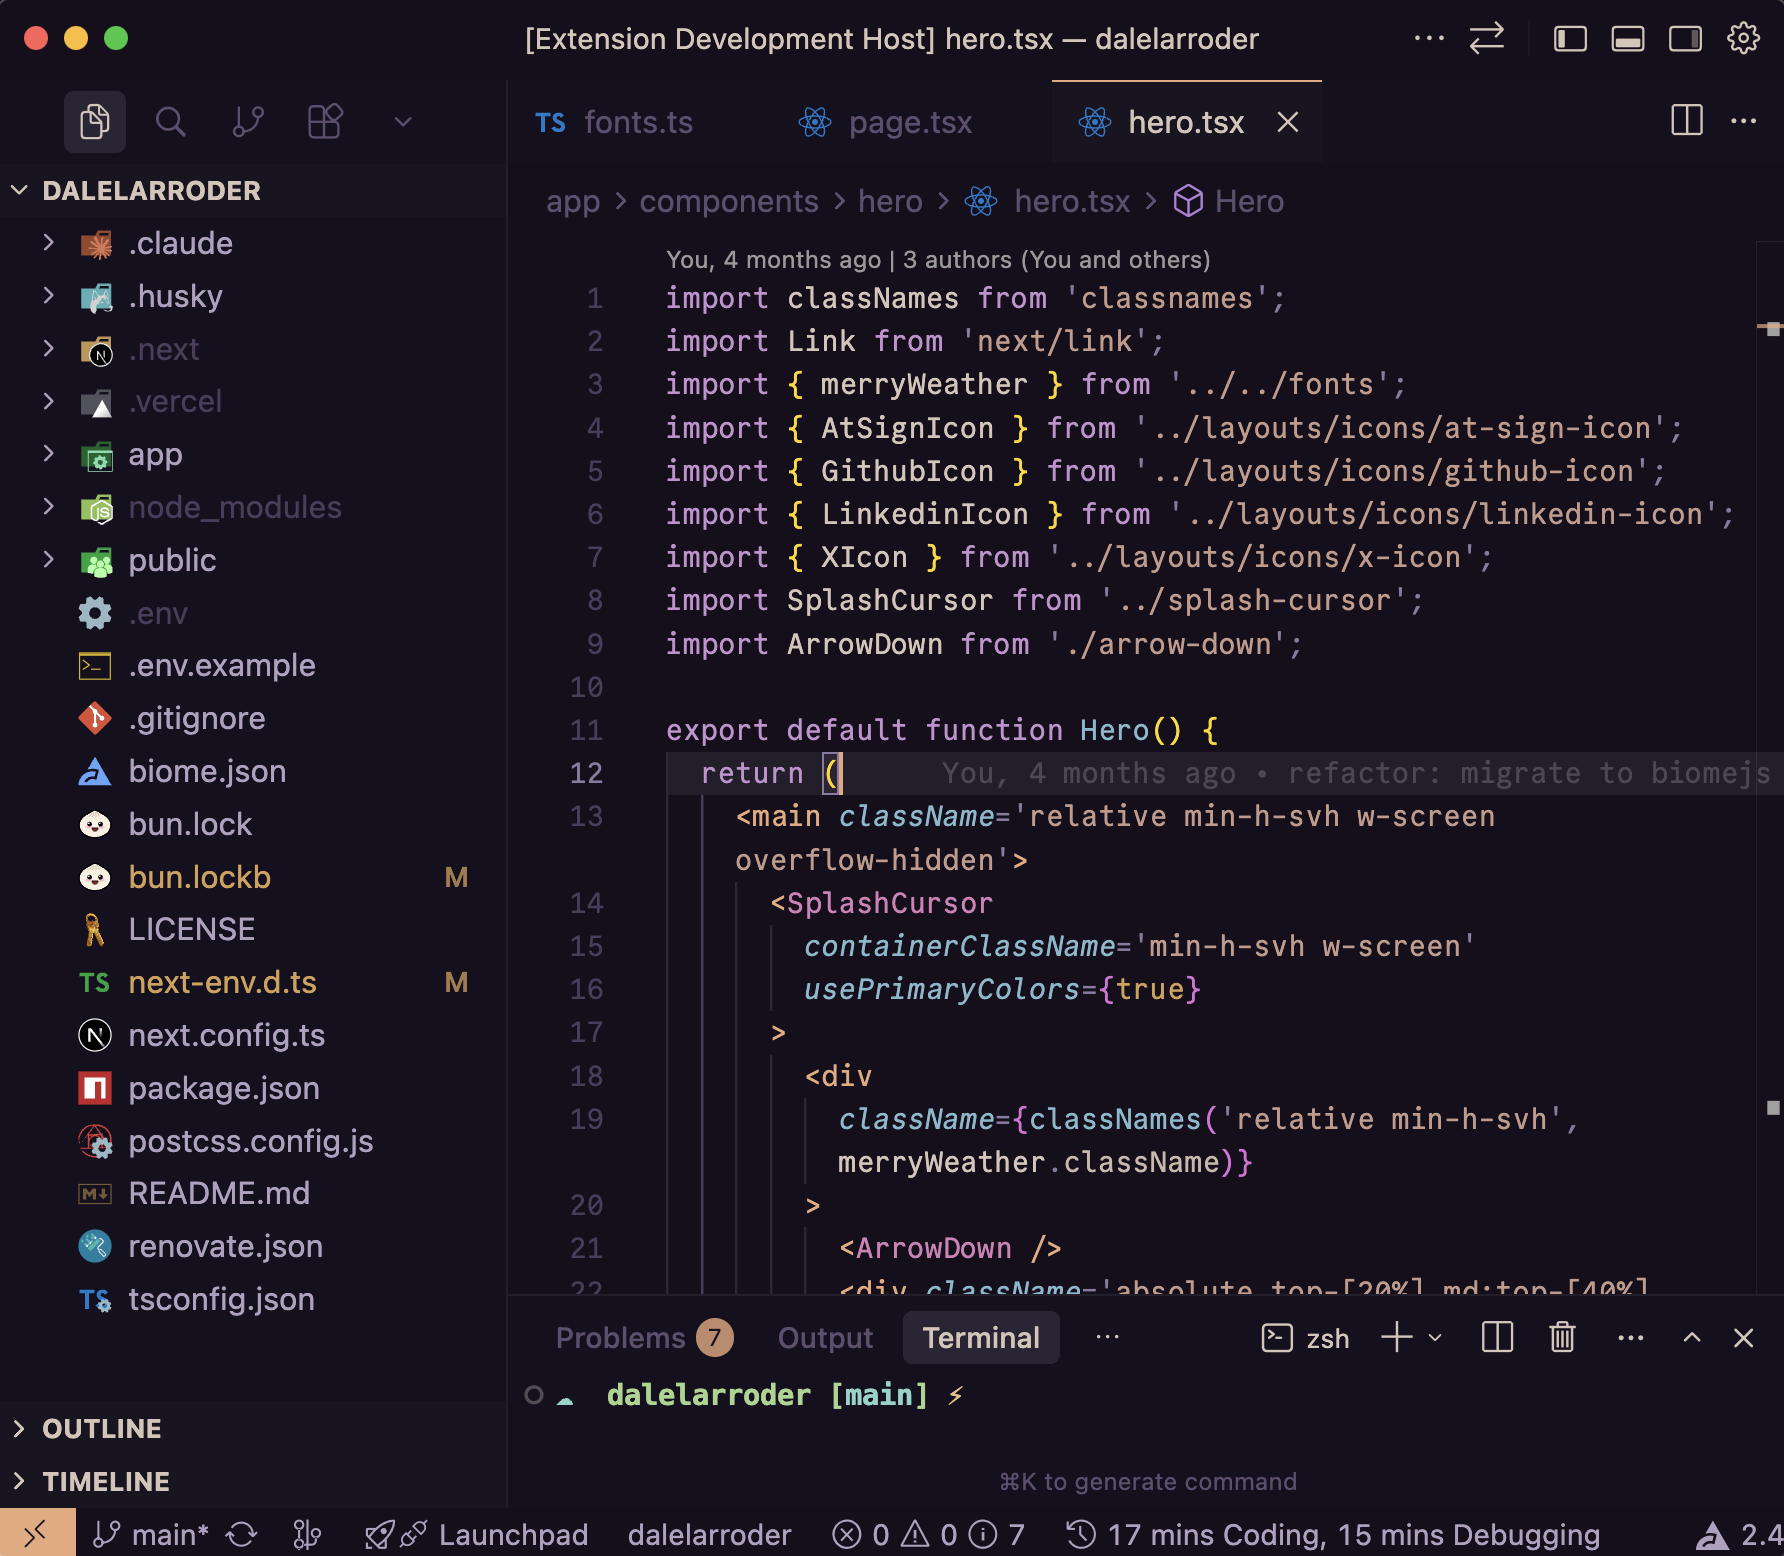
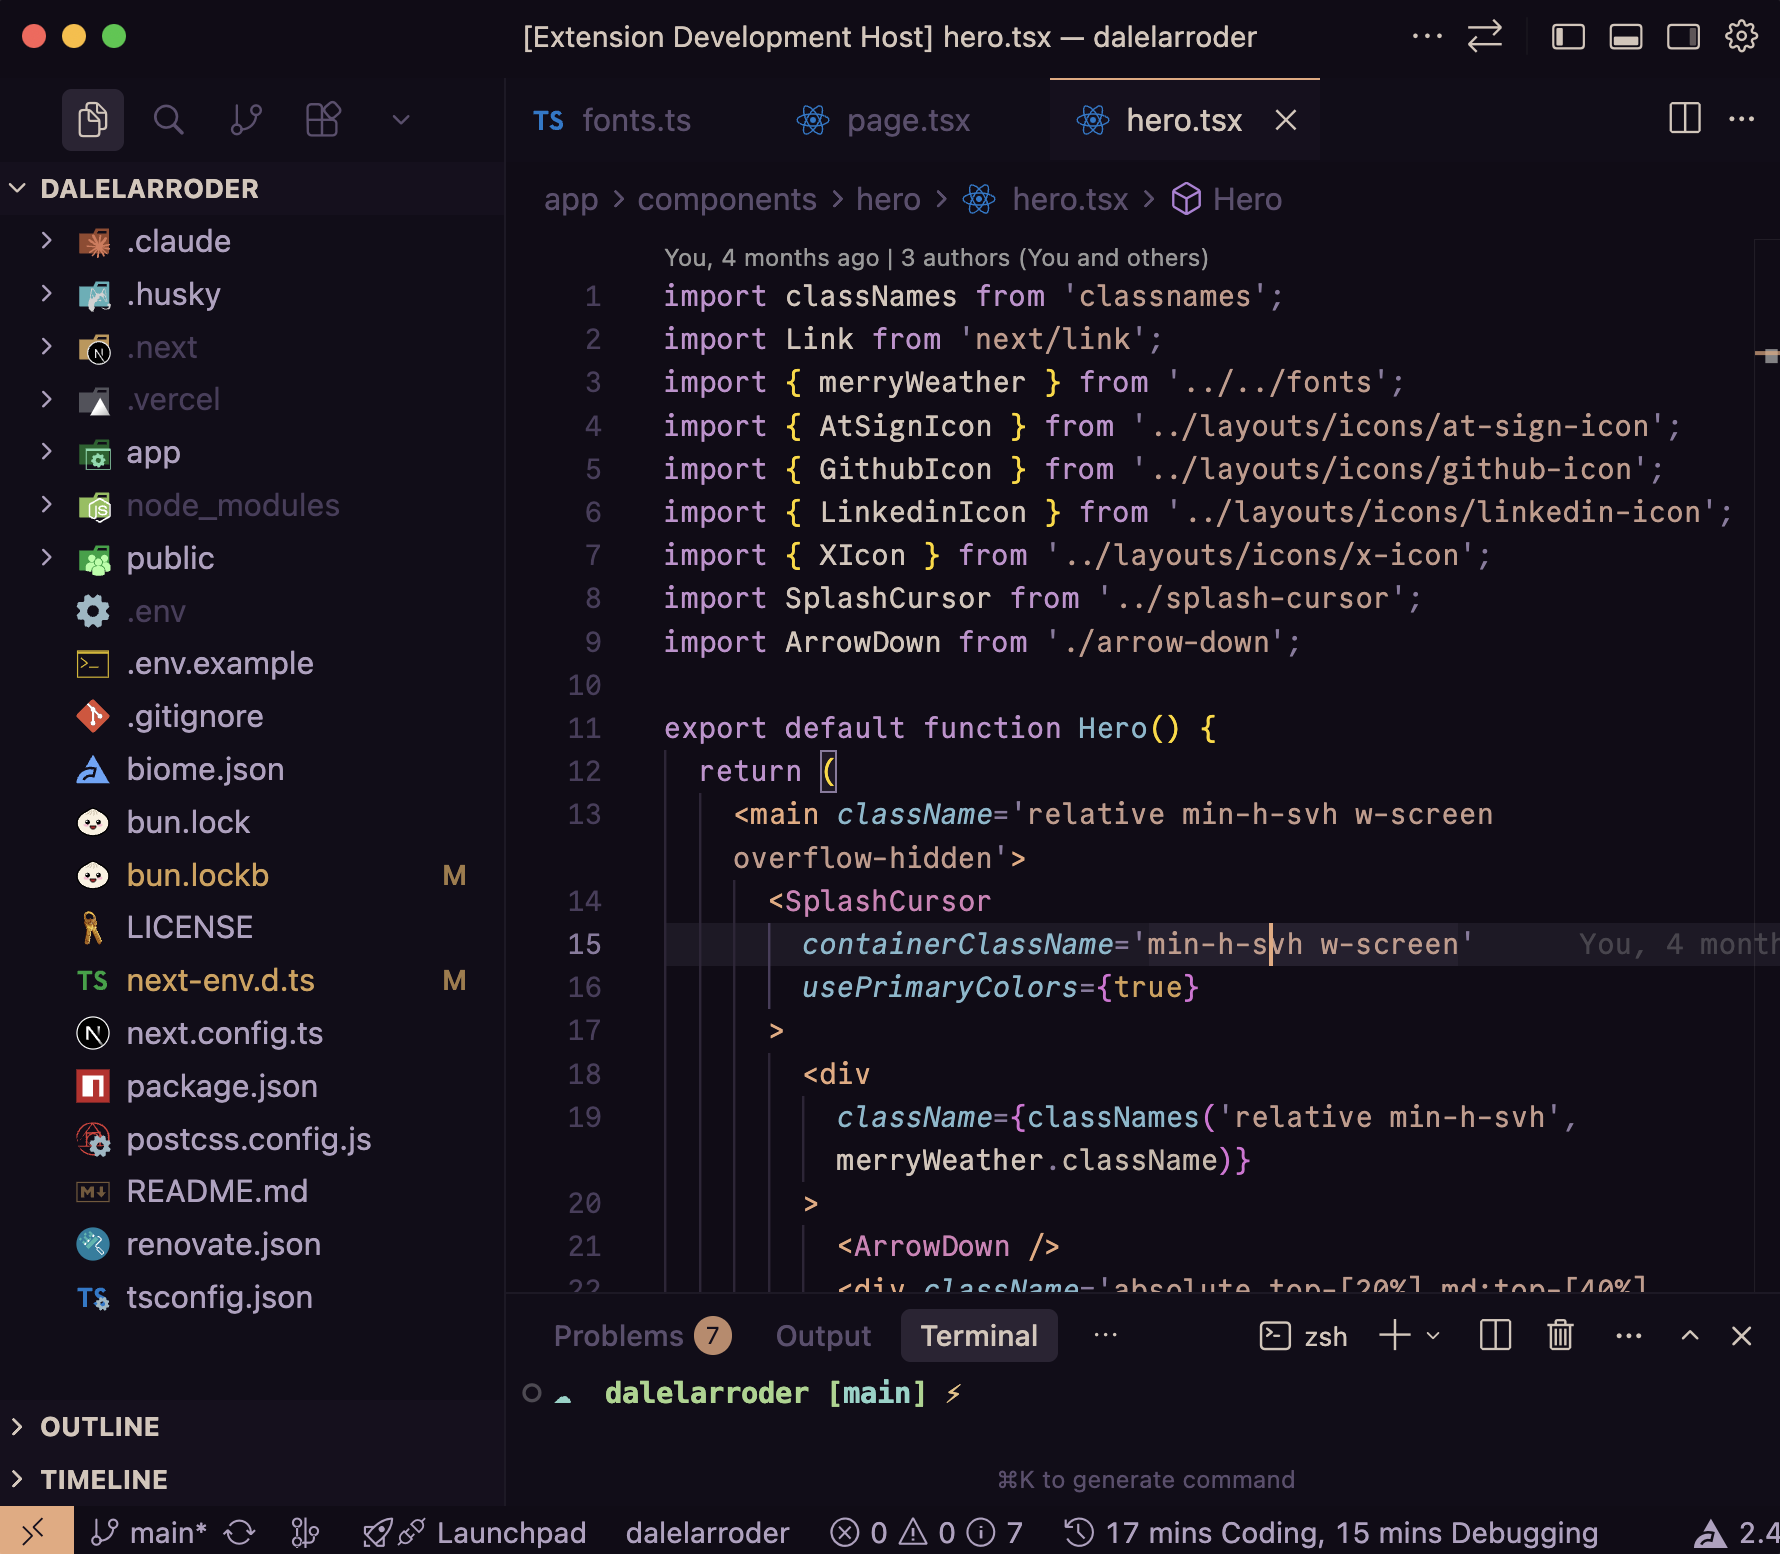
Darken background colors across the entire UI
Shift all background layers deeper while maintaining relative depth
hierarchy for a moodier, more immersive feel.

Made-with: Cursor

diff --git a/README.md b/README.md
@@ -10,7 +10,7 @@ A warm, cozy dark theme for VS Code that's easy on the eyes during long coding s
 
 | Role        | Color | Hex       |
 | ----------- | ----- | --------- |
-| Background  | ![Background](https://img.shields.io/badge/-%20%20%20%20%20-150f1c?style=flat-square&labelColor=150f1c) | `#150f1c` |
+| Background  | ![Background](https://img.shields.io/badge/-%20%20%20%20%20-110c17?style=flat-square&labelColor=110c17) | `#110c17` |
 | Foreground  | ![Foreground](https://img.shields.io/badge/-%20%20%20%20%20-d4c5b9?style=flat-square&labelColor=d4c5b9) | `#d4c5b9` |
 | Accent      | ![Accent](https://img.shields.io/badge/-%20%20%20%20%20-e8a87c?style=flat-square&labelColor=e8a87c) | `#e8a87c` |
 | Keywords    | ![Keywords](https://img.shields.io/badge/-%20%20%20%20%20-c491cf?style=flat-square&labelColor=c491cf) | `#c491cf` |
